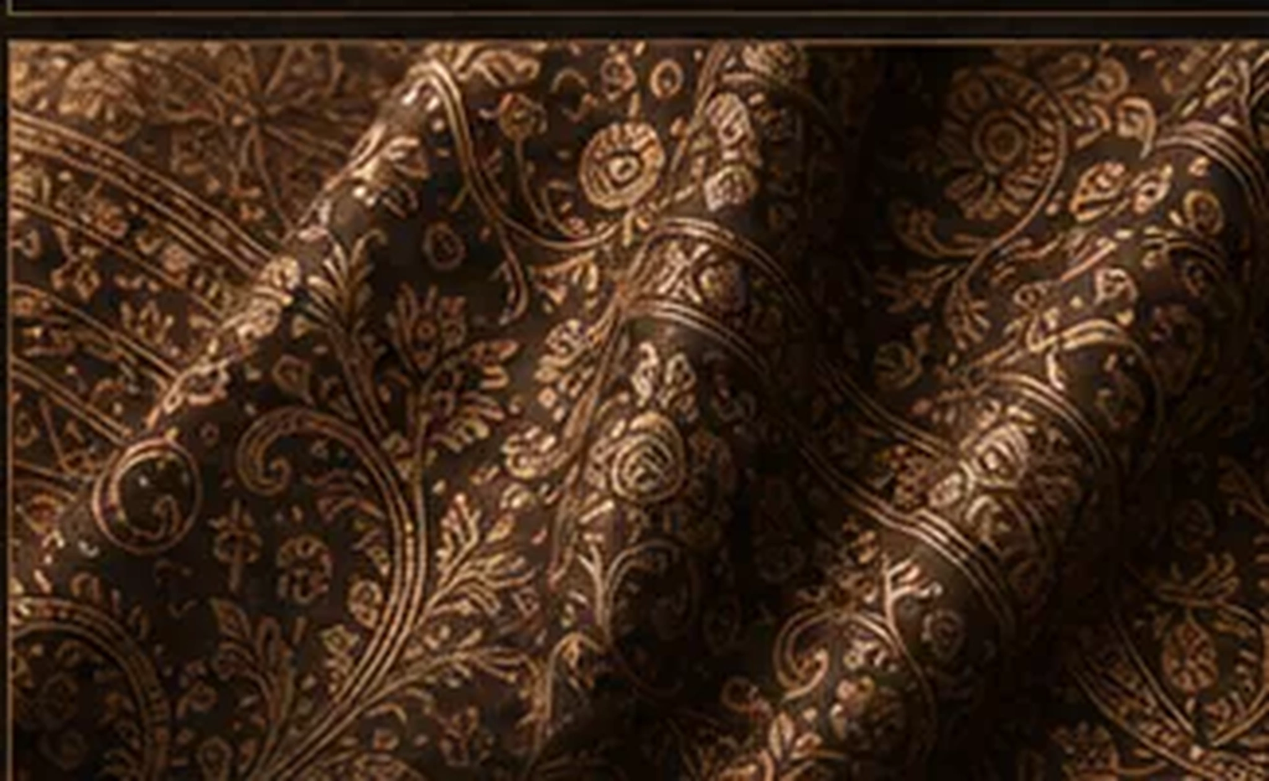
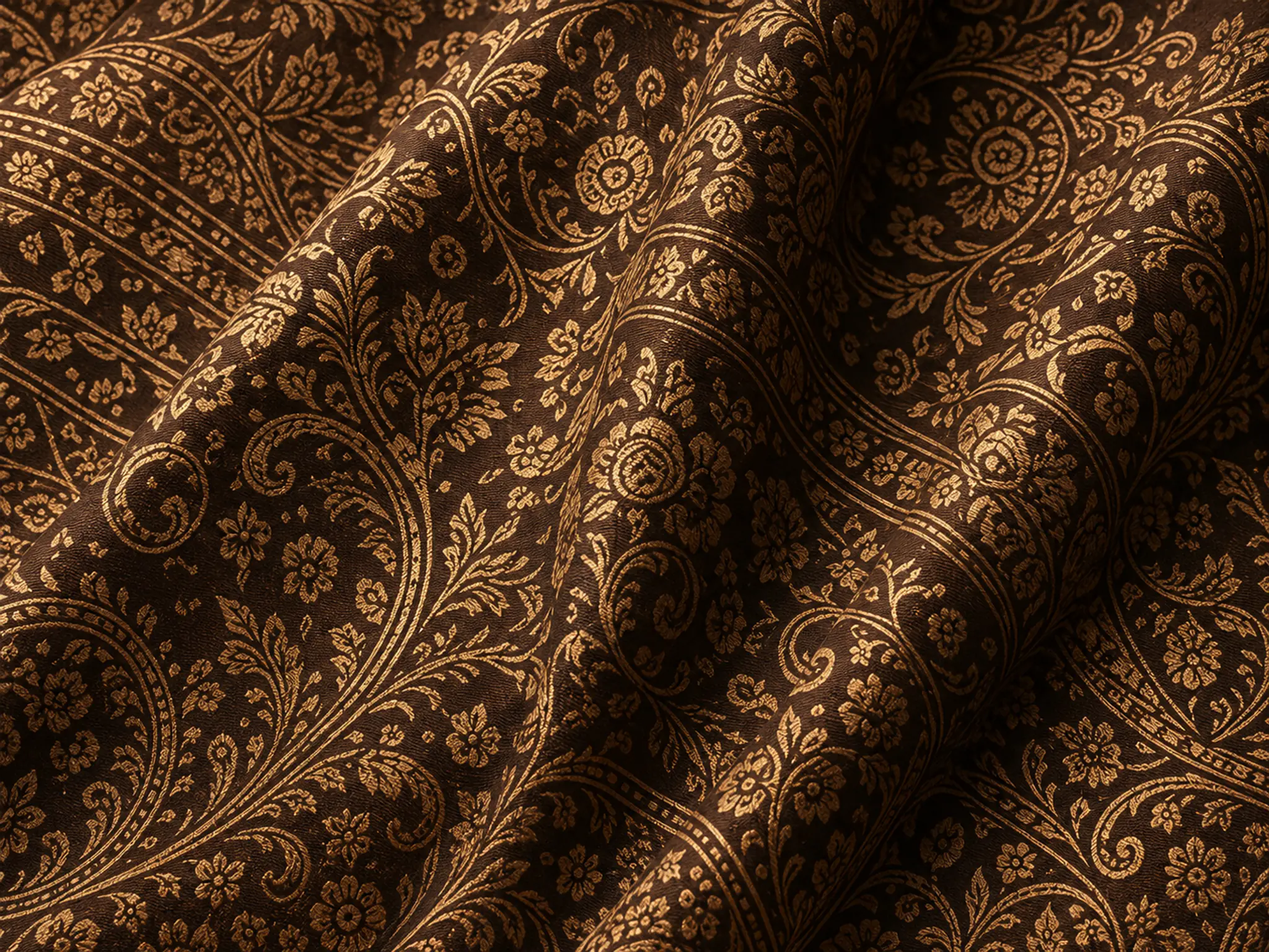
Replace homepage manufacturing journey images

diff --git a/index.html b/index.html
@@ -176,12 +176,12 @@
       </article>
 
       <article class="jCard hoverable">
-        <img src="assets/images/journey/metallic-zari-spools-960.webp" srcset="assets/images/journey/metallic-zari-spools-960.webp 960w, assets/images/journey/metallic-zari-spools-2048.webp 2048w" sizes="(max-width: 640px) 82vw, (max-width: 1055px) 72vw, 760px" alt="Coning and finishing" loading="lazy" decoding="async">
+        <img src="assets/images/journey/heritage-fabric-960.webp" srcset="assets/images/journey/heritage-fabric-960.webp 960w, assets/images/journey/heritage-fabric-2048.webp 2048w" sizes="(max-width: 640px) 82vw, (max-width: 1055px) 72vw, 760px" alt="Coning and finishing" loading="lazy" decoding="async">
         <div class="jShade"></div><div class="jCopy"><small>04 · Setting & Coning</small><h3>Stabilise.</h3><p>Finishing stages that convert production output into a clean commercial package.</p></div>
       </article>
 
       <article class="jCard hoverable">
-        <img src="assets/images/journey/heritage-fabric-960.webp" srcset="assets/images/journey/heritage-fabric-960.webp 960w, assets/images/journey/heritage-fabric-2048.webp 2048w" sizes="(max-width: 640px) 82vw, (max-width: 1055px) 72vw, 760px" alt="Quality appearance" loading="lazy" decoding="async">
+        <img src="assets/images/journey/fashion-application-960.webp" srcset="assets/images/journey/fashion-application-960.webp 960w, assets/images/journey/fashion-application-2048.webp 2048w" sizes="(max-width: 640px) 82vw, (max-width: 1055px) 72vw, 760px" alt="Quality appearance" loading="lazy" decoding="async">
         <div class="jShade"></div><div class="jCopy"><small>05 · Quality Release</small><h3>Confirm.</h3><p>Product identity, weight, appearance and lot status checked before release.</p></div>
       </article>
 
